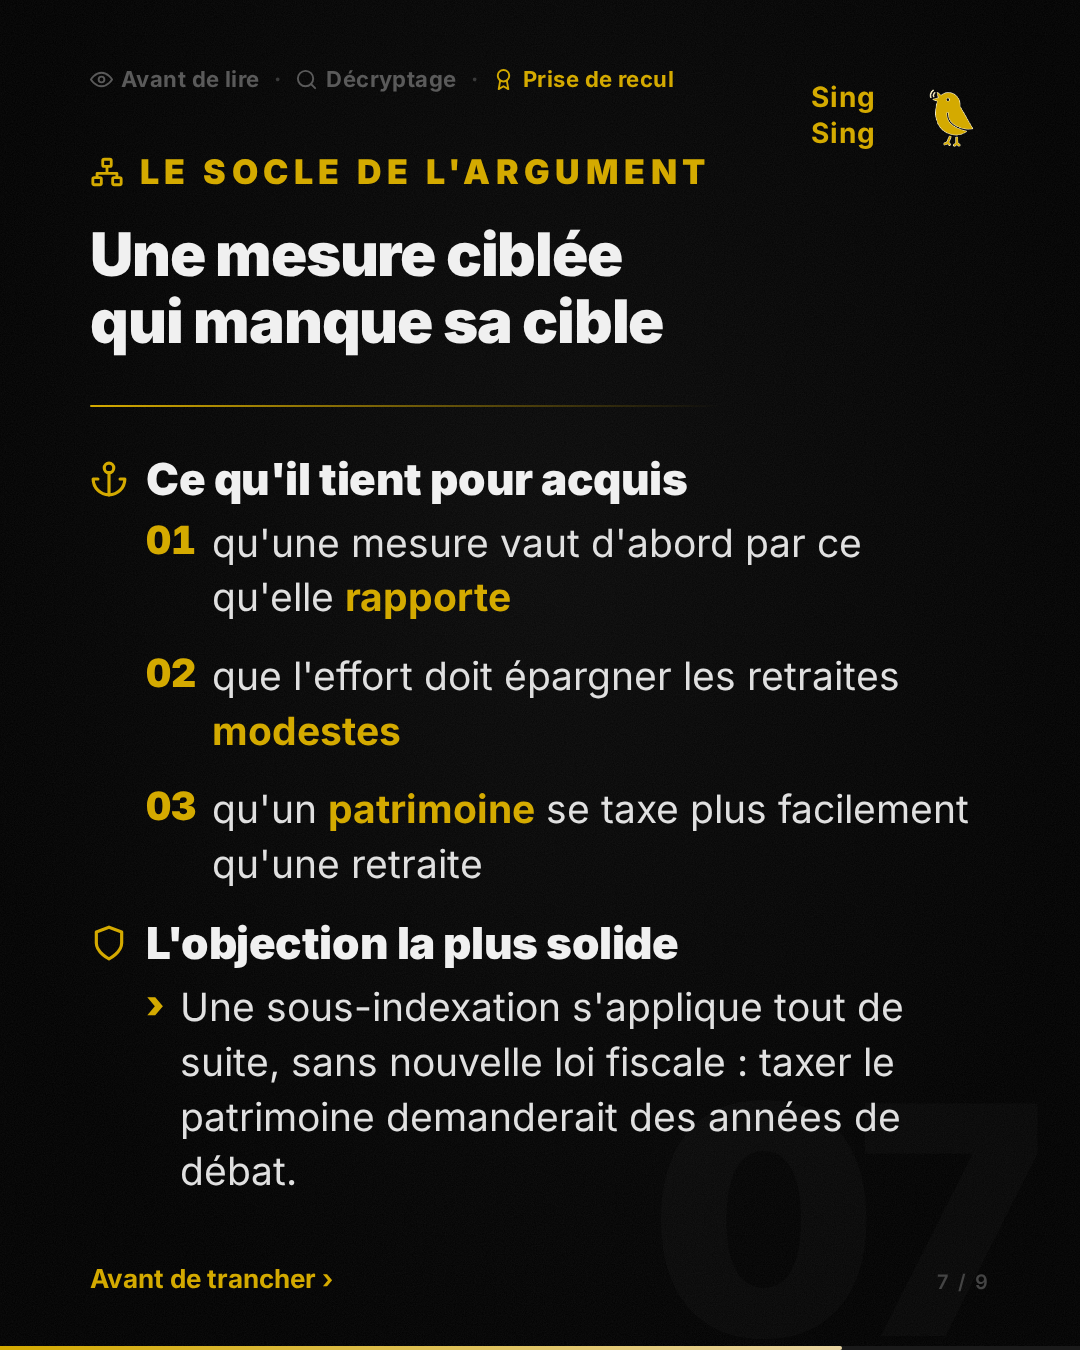
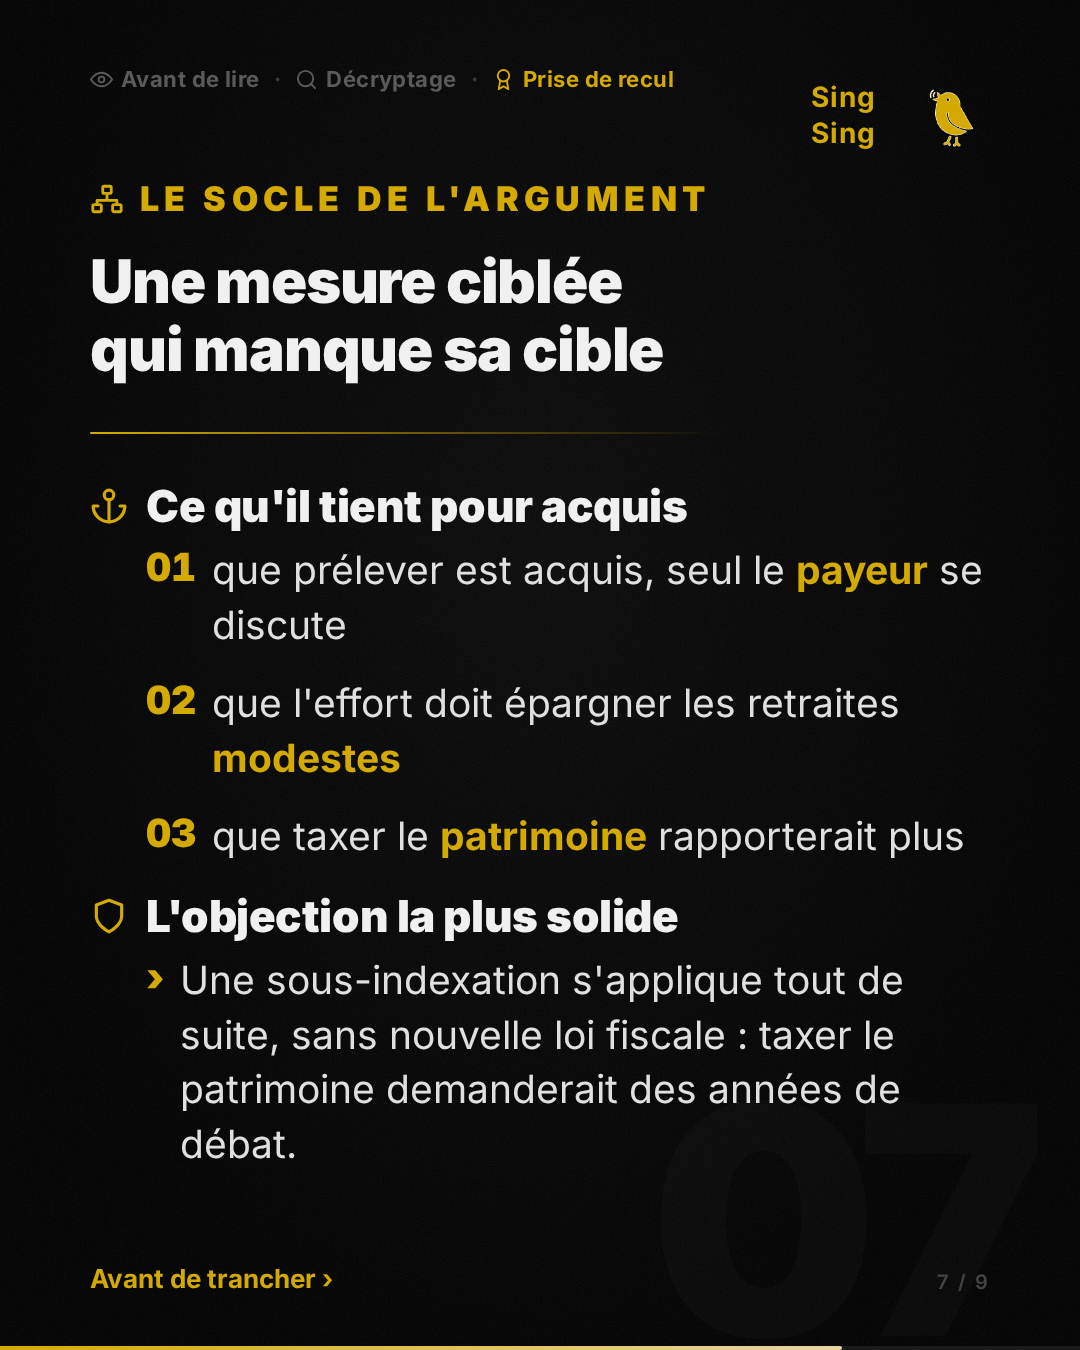
fix(carousel): single-slide re-shoot, and three tests for the socle presupposés
`main.py html` wrote to <deck>/<json stem>/ while `render` writes <deck>/html,
so it created a stray extract/ folder and left the deck's own html stale; and
`shoot` on one file always went through shoot_page, which captures full-page at
a device scale factor — a carousel slide came out 2160×2700 instead of
1080×1350. `shoot_slide` now keeps the slide frame, picked by looking at the
file, and shoot_dir shares the same one-slide helper.

The socle presupposés were wrong on substance three times over on article_12:
one restated what the article argues out loud, one was refuted by the article's
own last paragraph, and one belonged to the position the article attacks. The
prompt now runs those three tests before a presupposé is kept — is it unsaid,
does the text contradict it, whose assumption is it — and `steel_man` points at
the last two.

Two advisories in `check_deck` back them up, deliberately not errors since a
sound assumption can share its beat's vocabulary: a presupposé that lines up
with a sentence of the article (likely stated outright), and one that reuses
most of its beat's answer (likely the finding said twice).

Changed region(s): [[0.0917, 0.3422, 0.9167, 0.9022], [0.0611, 0.0933, 0.6722, 0.28]]

diff --git a/samples/articles/article_12/instagram_carousel_optimized/html/07_socle.html b/samples/articles/article_12/instagram_carousel_optimized/html/07_socle.html
@@ -443,7 +443,7 @@ body {
     <div class="divider"></div>
     <div class="q-item">
       <div class="q-head"><span class="mk"><svg viewBox="0 0 24 24"><circle cx="12" cy="5" r="3"/><line x1="12" y1="22" x2="12" y2="8"/><path d="M5 12H2a10 10 0 0 0 20 0h-3"/></svg></span><span class="q-label">Ce qu&#39;il tient pour acquis</span></div>
-      <div class="r-list"><div class="r-item"><span class="rk">01</span><span>qu&#39;une mesure vaut d&#39;abord par ce qu&#39;elle <strong>rapporte</strong></span></div><div class="r-item"><span class="rk">02</span><span>que l&#39;effort doit épargner les retraites <strong>modestes</strong></span></div><div class="r-item"><span class="rk">03</span><span>qu&#39;un <strong>patrimoine</strong> se taxe plus facilement qu&#39;une retraite</span></div></div>
+      <div class="r-list"><div class="r-item"><span class="rk">01</span><span>que prélever est acquis, seul le <strong>payeur</strong> se discute</span></div><div class="r-item"><span class="rk">02</span><span>que l&#39;effort doit épargner les retraites <strong>modestes</strong></span></div><div class="r-item"><span class="rk">03</span><span>que taxer le <strong>patrimoine</strong> rapporterait plus</span></div></div>
     </div><div class="q-item">
       <div class="q-head"><span class="mk"><svg viewBox="0 0 24 24"><path d="M12 22s8-4 8-10V5l-8-3-8 3v7c0 6 8 10 8 10z"/></svg></span><span class="q-label">L&#39;objection la plus solide</span></div>
       <div class="r-list"><div class="r-item"><span class="rk">&#8250;</span><span>Une sous-indexation s&#39;applique tout de suite, sans nouvelle loi fiscale : taxer le patrimoine demanderait des années de débat.</span></div></div>

diff --git a/samples/articles/article_12/instagram_carousel_optimized/html/04_moment.html b/samples/articles/article_12/instagram_carousel_optimized/html/04_moment.html
@@ -456,12 +456,12 @@ body {
     <div class="divider"></div>
     <div>
       <div class="num-fig is-term">1 Md€</div>
-      <div class="num-sub">en ne visant que les retraites au-dessus de 3 000 euros</div>
+      <div class="num-sub">en ne visant que les retraites au-dessus de 3 000 euros</div>
       
     </div>
     <div class="evidence"><p class="ev-quote">«&#160;Si désindexer […] peut “rapporter” beaucoup, c&#39;est […] parce qu&#39;il y a beaucoup de retraités, pas parce que les pensions sont très hautes&#160;»</p></div>
     <p class="watch"><svg viewBox="0 0 24 24"><line x1="6" y1="20" x2="6" y2="14"/><line x1="12" y1="20" x2="12" y2="4"/><line x1="18" y1="20" x2="18" y2="10"/></svg><span class="wtxt">Une mesure ciblée : combien rapporte-t-elle vraiment ?</span></p>
-    <div class="reveal"><span class="arw">&#8594;</span><p class="rev">Le nombre : ne viser que les <strong>8 %</strong> au-dessus de 3 000 euros ramène le rendement de six milliards à <strong>un seul</strong>.</p></div>
+    <div class="reveal"><span class="arw">&#8594;</span><p class="rev">Le nombre : ne viser que les <strong>8 %</strong> au-dessus de 3 000 euros ramène le rendement de six milliards à <strong>un seul</strong>.</p></div>
   </div>
   <div class="slide-num">4 / 9</div>
   <div class="progress-track"><div class="progress-bar" style="width: 44%;"></div></div>

diff --git a/samples/articles/article_12/instagram_carousel_optimized/html/02_essentiel.html b/samples/articles/article_12/instagram_carousel_optimized/html/02_essentiel.html
@@ -438,7 +438,7 @@ body {
     <span class="kick"><svg viewBox="0 0 24 24"><path d="M2 3h6a4 4 0 0 1 4 4v14a3 3 0 0 0-3-3H2z"/><path d="M22 3h-6a4 4 0 0 0-4 4v14a3 3 0 0 1 3-3h7z"/></svg>L&#39;essentiel de l&#39;article</span>
     <h1 class="sel-head">En bref</h1>
     <div class="divider"></div>
-    <p class="lede">Ne viser que les retraites au-dessus de <strong>3 000 euros</strong> rapporterait à peine <strong>1 milliard</strong>, contre près de <strong>6</strong> en désindexant tout.</p>
+    <p class="lede">Ne viser que les retraites au-dessus de <strong>3 000 euros</strong> rapporterait à peine <strong>1 milliard</strong>, contre près de <strong>6</strong> en désindexant tout.</p>
     <div class="pts">
       <div class="pt"><span class="pt-n">01</span><span class="pt-t">Le rendement vient du <strong>nombre</strong> de retraités, pas du montant des retraites.</span></div><div class="pt"><span class="pt-n">02</span><span class="pt-t">Le régime de base fait <strong>deux tiers</strong> de la retraite des plus modestes.</span></div><div class="pt"><span class="pt-n">03</span><span class="pt-t">Les retraités aisés vivent surtout de leur complémentaire et de leur <strong>patrimoine</strong>.</span></div>
     </div>

diff --git a/tools/check_deck.py b/tools/check_deck.py
@@ -24,7 +24,7 @@ import json
 import re
 from pathlib import Path
 
-from agent.instagram_carousel_adapt_agent import _validate, norm_for_match, quote_is_faithful
+from agent.instagram_carousel_adapt_agent import _stems, _validate, norm_for_match, quote_is_faithful
 from models.instagram_carousel_presentation import InstagramCarouselDocument
 
 # Punctuation that French sets off with a no-break space.
@@ -140,6 +140,65 @@ def _late_vocabulary(doc: InstagramCarouselDocument) -> list[str]:
     return problems
 
 
+# A presupposé is what the article takes for granted WITHOUT ever arguing it.
+# When one lines up with a sentence of the article, the text most likely says it
+# outright — and the slide is then summarising the demonstration instead of
+# naming the step below it. Advisory: a sound assumption can legitimately borrow
+# the article's vocabulary, so a human decides.
+_SENTENCE_SPLIT = re.compile(r"[.!?\n]+")
+_STATED_OVERLAP = 3
+
+
+def _stated_presupposes(doc: InstagramCarouselDocument, article_raw: str | None) -> list[str]:
+    if not article_raw:
+        return []
+    sentences = [_stems(x) for x in _SENTENCE_SPLIT.split(article_raw)]
+    problems = []
+    for label, clause in _slide_order(doc):
+        if label != "socle présupposé":
+            continue
+        stems = _stems(clause)
+        if len(stems) < _STATED_OVERLAP:
+            continue
+        for sentence in sentences:
+            shared = stems & sentence
+            if len(shared) >= _STATED_OVERLAP:
+                problems.append(
+                    f"{label} lines up with a sentence of the article "
+                    f"({', '.join(sorted(shared))}) — if the text argues this, it is not "
+                    f"something it takes for granted; look one step below it — « {clause[:50]}… »"
+                )
+                break
+    return problems
+
+
+# The other half of the presupposé test: it must name what its beat's finding
+# RESTS on, not say the finding again. Advisory like the one above — a presupposé
+# legitimately names the condition its beat exposes, so the overlap alone cannot
+# decide; what it flags is a slide 8 that repeats slides 5–7 instead of going
+# below them.
+def _restated_presupposes(doc: InstagramCarouselDocument) -> list[str]:
+    d = doc.presentation.display
+    if not d.global_analysis:
+        return []
+    sel = [b for b in d.reading_beats if b.selected]
+    clauses = [c.strip() for point in d.global_analysis.core_recap
+               for c in (point.split(":", 1)[-1]).split(";") if c.strip()]
+    problems = []
+    for j, clause in enumerate(clauses):
+        if j >= len(sel):
+            break
+        stems = _stems(clause)
+        # Under four content words a presupposé shares its whole vocabulary with
+        # its beat by construction, and the ratio says nothing.
+        if len(stems) >= 4 and len(stems & _stems(sel[j].answer)) / len(stems) >= 0.6:
+            problems.append(
+                f"socle présupposé {j + 1} reuses most of beat {j + 1}'s answer — check it names "
+                f"what the finding rests on, not the finding again — « {clause[:50]}… »"
+            )
+    return problems
+
+
 def check(extract_path: Path, article_path: Path | None = None) -> dict[str, list[str]]:
     """Run every check. Returns {family: [problems]} — empty lists mean clean."""
     extract_path = Path(extract_path)
@@ -165,12 +224,14 @@ def check(extract_path: Path, article_path: Path | None = None) -> dict[str, lis
         candidate = base / f"{base.name}.txt"
         article_path = candidate if candidate.exists() else None
 
+    article_raw = None
     if article_path is None:
         report["accuracy"].append(
             "article text not found — pass it as the second argument to check quotes and figures"
         )
     else:
-        article = _norm(Path(article_path).read_text(encoding="utf-8"))
+        article_raw = Path(article_path).read_text(encoding="utf-8")
+        article = _norm(article_raw)
         article_numbers = _numbers(article)
         for i, b in enumerate(doc.presentation.display.reading_beats):
             if b.selected and b.quote.strip():
@@ -216,6 +277,8 @@ def check(extract_path: Path, article_path: Path | None = None) -> dict[str, lis
     # steel man names asbestos, lead, opioids). What the count signals is a field
     # written from the analysis rather than from the deck — a human decides.
     report["vocabulary (advisory)"] = _late_vocabulary(doc)
+    report["vocabulary (advisory)"] += _stated_presupposes(doc, article_raw)
+    report["vocabulary (advisory)"] += _restated_presupposes(doc)
 
     # Slide 4 lists one numbered réflexe per selected beat, and each beat repeats
     # that question; the renderer derives both from the same list, so a mismatch

diff --git a/renderer/shoot.py b/renderer/shoot.py
@@ -31,6 +31,36 @@ def shoot_page(html_file, png=None, width=720, scale=2) -> Path:
     return png
 
 
+def _shoot_slide(browser, html_file: Path, png: Path) -> Path:
+    """One fixed-size slide, in an already-open browser."""
+    page = browser.new_page(viewport={"width": SLIDE_W, "height": SLIDE_H})
+    page.set_content(html_file.read_text(encoding="utf-8"), wait_until="networkidle")
+    page.screenshot(path=str(png), clip={"x": 0, "y": 0, "width": SLIDE_W, "height": SLIDE_H})
+    page.close()
+    print(f"  ✓ {png.name}")
+    return png
+
+
+def shoot_slide(html_file, png=None) -> Path:
+    """Screenshot ONE carousel slide, at slide size — for re-shooting a single
+    slide after a copy edit, without regenerating the whole deck. `shoot_page`
+    would capture it full-page at a device scale factor, giving a 2160×2700 PNG
+    that does not belong in `slides/`."""
+    html_file = Path(html_file)
+    png = Path(png) if png else html_file.with_suffix(".png")
+    png.parent.mkdir(parents=True, exist_ok=True)
+    with sync_playwright() as p:
+        browser = p.chromium.launch()
+        out = _shoot_slide(browser, html_file, png)
+        browser.close()
+    return out
+
+
+def is_slide(html_file) -> bool:
+    """A carousel slide (fixed 1080×1350 frame), as opposed to a newsletter page."""
+    return 'class="slide"' in Path(html_file).read_text(encoding="utf-8")
+
+
 def shoot_dir(html_dir, out_dir=None) -> list[Path]:
     """Screenshot every *.html in `html_dir` to a .png (sorted by name).
 
@@ -43,12 +73,6 @@ def shoot_dir(html_dir, out_dir=None) -> list[Path]:
     with sync_playwright() as p:
         browser = p.chromium.launch()
         for f in files:
-            page = browser.new_page(viewport={"width": SLIDE_W, "height": SLIDE_H})
-            page.set_content(f.read_text(encoding="utf-8"), wait_until="networkidle")
-            png = out_dir / (f.stem + ".png")
-            page.screenshot(path=str(png), clip={"x": 0, "y": 0, "width": SLIDE_W, "height": SLIDE_H})
-            page.close()
-            out.append(png)
-            print(f"  ✓ {png.name}")
+            out.append(_shoot_slide(browser, f, out_dir / (f.stem + ".png")))
         browser.close()
     return out

diff --git a/main.py b/main.py
@@ -153,7 +153,10 @@ async def cmd_render(args: argparse.Namespace) -> None:
 async def cmd_html(args: argparse.Namespace) -> None:
     # Step 1 of the render split: write standalone HTML slide files (no screenshots).
     json_path = Path(args.document)
-    out_dir = Path(args.output_dir) if args.output_dir else json_path.parent / json_path.stem
+    # Same layout as `render`, which writes <deck>/html and <deck>/slides: this
+    # wrote to <deck>/<json stem>/ instead, leaving the deck's own html/ stale
+    # while quietly creating an extract/ folder beside it.
+    out_dir = Path(args.output_dir) if args.output_dir else json_path.parent / "html"
     _, _, renderer_mod = FORMATS[args.format]
     generate_html_from_json = importlib.import_module(renderer_mod).generate_html_from_json
     print(f"Writing HTML slides to {out_dir}/", file=sys.stderr)
@@ -162,15 +165,19 @@ async def cmd_html(args: argparse.Namespace) -> None:
 
 async def cmd_shoot(args: argparse.Namespace) -> None:
     # Step 2 of the render split: screenshot HTML to PNG.
-    # A directory → every slide (shoot_dir); a single HTML file → full-page (shoot_page).
-    from renderer.shoot import shoot_dir, shoot_page
+    # A directory → every slide (shoot_dir); a single file → one slide, or a
+    # newsletter page full-page.
+    from renderer.shoot import is_slide, shoot_dir, shoot_page, shoot_slide
     path = Path(args.path)
     if path.is_dir():
         print(f"Screenshotting HTML in {path}/", file=sys.stderr)
         await asyncio.to_thread(shoot_dir, path)
     else:
         print(f"Screenshotting {path.name}", file=sys.stderr)
-        await asyncio.to_thread(shoot_page, path, args.output)
+        # A carousel slide keeps its 1080×1350 frame; a newsletter page has no
+        # fixed height and is captured full-page.
+        shot = shoot_slide if is_slide(path) else shoot_page
+        await asyncio.to_thread(shot, path, args.output)
 
 
 async def cmd_validate(args: argparse.Namespace) -> None:

diff --git a/agent/prompts/instagram_carousel.md b/agent/prompts/instagram_carousel.md
@@ -296,6 +296,20 @@ slides « socle » et « prise de recul » en DÉCOULENT — elles ne partent pa
   tient pour acquis en mots ordinaires : « qu'une étude fragile peut représenter tout le camp
   adverse ». Les slides 5–7 font le travail local ; la slide 8 descend d'un
   cran, elle ne résume pas.
+  **TROIS TESTS, UN PAR UN, AVANT DE VALIDER UN PRÉSUPPOSÉ (impératif)** — les trois échouent
+  souvent sans se voir, et le même geste les corrige : descendre d'un cran sous ce que le
+  texte dit.
+  1. **EST-CE NON DIT ?** Si l'article ARGUMENTE ce point, ce n'est pas un présupposé, c'est un
+     résumé de sa démonstration. Un texte qui explique longuement qu'une mesure rapporte trop peu
+     ne « tient pas pour acquis » qu'elle rapporte trop peu : il le soutient. Cherche l'étage en
+     dessous — ce qu'il faut déjà accepter pour que cet argument compte (ici : que le prélèvement
+     lui-même n'est pas en question, seul son destinataire).
+  2. **LE TEXTE DIT-IL LE CONTRAIRE QUELQUE PART ?** Relis la DERNIÈRE section avant de valider :
+     un présupposé démenti par la clôture est simplement faux (« qu'un patrimoine se taxe
+     facilement », quand l'article termine en rappelant le débat politique que cela ouvrirait).
+  3. **DE QUI EST-CE LE PRÉSUPPOSÉ ?** La slide dit ce que l'ARTICLE laisse inexaminé, jamais ce
+     que suppose la position qu'il COMBAT. La prémisse de l'adversaire — celle que le texte passe
+     sa longueur à démonter — appartient à un beat, pas au socle.
   **CORRESPONDANCE UN POUR UN (impératif)** : il y a EXACTEMENT autant de présupposés que de
   beats `selected`, dans le MÊME ORDRE — un par slide 5, 6, 7. Le vivier compte 6 à 8 candidats
   mais **seuls les beats retenus sont montrés au lecteur** : un présupposé fondé sur un beat
@@ -321,7 +335,7 @@ slides « socle » et « prise de recul » en DÉCOULENT — elles ne partent pa
   moyens » pour la question ET pour le `root_issue`), réécris-en un. La règle porte sur l'**AXE**,
   pas sur les mots : changer de vocabulaire ne suffit pas.
 - `global_analysis` : le **socle de l'argument** — le regard GLOBAL sur le raisonnement de l'article (vs les slides 4–6, qui sont des annotations LOCALES). PAS un récapitulatif des faits (ça, c'est `key_takeaways`, slide 9 — ne le répète pas). NE CONCLUS PAS à la place du lecteur (jamais « non démontré / glissement / saut » ni verdict), et surtout NE RÉDUIS PAS l'article à un seul de ses enjeux : si la thèse s'appuie sur plusieurs dimensions (p. ex. climat ET faune ET dégradation locale ET symbole — regarde les `core_elements`), le socle doit TOUTES les refléter, sans se ramener à un seul angle (typiquement, ne ramène pas tout au climat). Appuie-toi sur `fond.logical_reasoning`, `fond.implicit_assumptions` ET `core_elements`. `headline` (≤10 mots — **LA THÈSE DE L'ARTICLE EN UNE LIGNE**, en français ordinaire : ce que le texte SOUTIENT, affirmé, pas une question et pas une description de la slide (« Trois appuis que l'essai ne démontre pas » parle de notre liste, pas de l'article). La slide se lit alors comme un enchaînement : voici ce que l'article défend → voici ce que cette thèse tient pour acquis → voici la question que cela soulève. Ex. : « Expérimenter tant qu'on peut revenir en arrière »). `core_recap` (1 seul point, ≤16 mots **étiquette non comprise — compte-les avant de valider, c'est une ligne de slide, pas un paragraphe**, PRÉFIXÉ de son étiquette « Ce qu'il tient pour acquis : » = les prémisses IMPLICITES que la thèse doit tenir pour acquises sans jamais les démontrer (`fond.implicit_assumptions`) — un présupposé PAR BEAT SÉLECTIONNÉ (voir la CORRESPONDANCE UN POUR UN ci-dessus), séparés par « ; », énoncés NEUTREMENT et de façon COMPACTE (pas de préambule « trois hypothèses… » : l'étiquette le dit déjà), qui COUVRENT les différentes dimensions de la thèse (ne ramène pas tout à un seul angle). **Chaque présupposé s'écrit « que … », en mots ordinaires, et se vérifie sur ce que le lecteur a vu** : « que 54 participants suffisent à juger toutes ces études » se comprend seul et renvoie au beat 3 ; « une étude fragile peut représenter tout le camp adverse » nomme un collectif que le carrousel n'a jamais présenté, et ne veut rien dire pour qui n'a pas lu l'article. Reprends les mots déjà employés sur la slide du beat correspondant. Aucun présupposé ne doit pouvoir se lire comme le résumé d'un moment (slides 5–7) — voir le TEST ANTI-RÉCAPITULATIF ci-dessus. La question qui met ces présupposés à l'épreuve n'est PAS dans `core_recap` : c'est `cta.engagement_sentence`, affichée sur cette même slide sous l'étiquette « La question ».
-- `steel_man` : à partir de `analysis.fond.steel_man`, choisis l'objection qui remet le plus en cause la **thèse/conclusion** de l'article et apporte une **perspective nouvelle** que le lecteur n'a pas encore vue — PAS celle qui répète une faille statistique ou factuelle déjà pointée dans `reading_beats` (ex. « effet de base », « chiffre sans total »). Préfère un contre-argument sur les conséquences ou les valeurs (bénéfice ignoré, arbitrage négligé). Reformule-le pour le lecteur : `argument` (≤18 mots — la meilleure objection à la thèse) et `alternative` (≤14 mots — la conclusion qui suivrait si l'objection tenait). C'est le contre-argument le plus solide que l'article n'affronte pas, pas notre avis.
+- `steel_man` : à partir de `analysis.fond.steel_man`, choisis l'objection qui remet le plus en cause la **thèse/conclusion** de l'article et apporte une **perspective nouvelle** que le lecteur n'a pas encore vue — PAS celle qui répète une faille statistique ou factuelle déjà pointée dans `reading_beats` (ex. « effet de base », « chiffre sans total »). Préfère un contre-argument sur les conséquences ou les valeurs (bénéfice ignoré, arbitrage négligé). Reformule-le pour le lecteur : `argument` (≤18 mots — la meilleure objection à la thèse) et `alternative` (≤14 mots — la conclusion qui suivrait si l'objection tenait). C'est le contre-argument le plus solide que l'article n'affronte pas, pas notre avis. **Les tests 2 et 3 des présupposés valent ici aussi** : une objection que le texte réfute lui-même (souvent dans sa dernière section) n'en est pas une, et une objection qui repose sur la prémisse que l'article démonte tombe à côté.
 - `root_issue` : **une phrase** (pas une question) qui nomme le **fond du problème** soulevé par l'article — l'enjeu réel, souvent implicite ou même non formulé dans le texte. Va au-delà du détail chiffré vers ce qui est vraiment en jeu. **NE RESTITUE PAS « La question » (`cta.engagement_sentence`) sous forme d'affirmation** : elles vivent sur deux slides voisines (8 puis 9) et ne doivent pas se recouvrir. « La question » POSE l'axe à trancher ; `root_issue` creuse EN DESSOUS, vers le risque/enjeu de fond distinct (souvent un autre présupposé que celui visé par la question). Exemple : « Au-delà des chiffres absolus, marginaux dans les émissions mondiales, l'enjeu est surtout symbolique : une élite qui affiche son indifférence climatique. » Neutre, sans verdict sur l'auteur.
 
 Ne rends AUCUN verdict ni score. L'acte 4 invite à conclure, il ne tranche pas.
